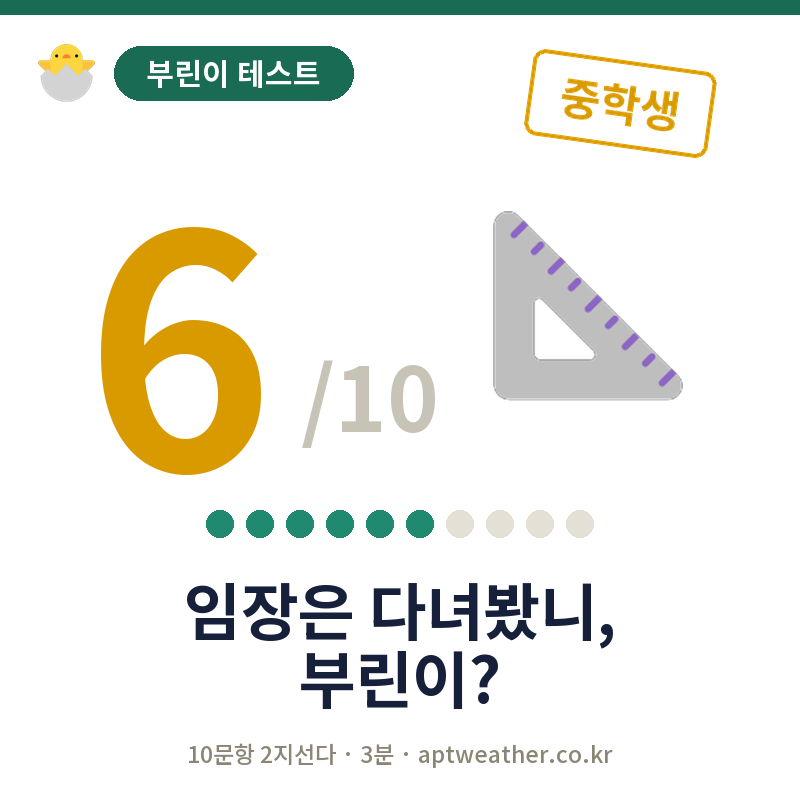
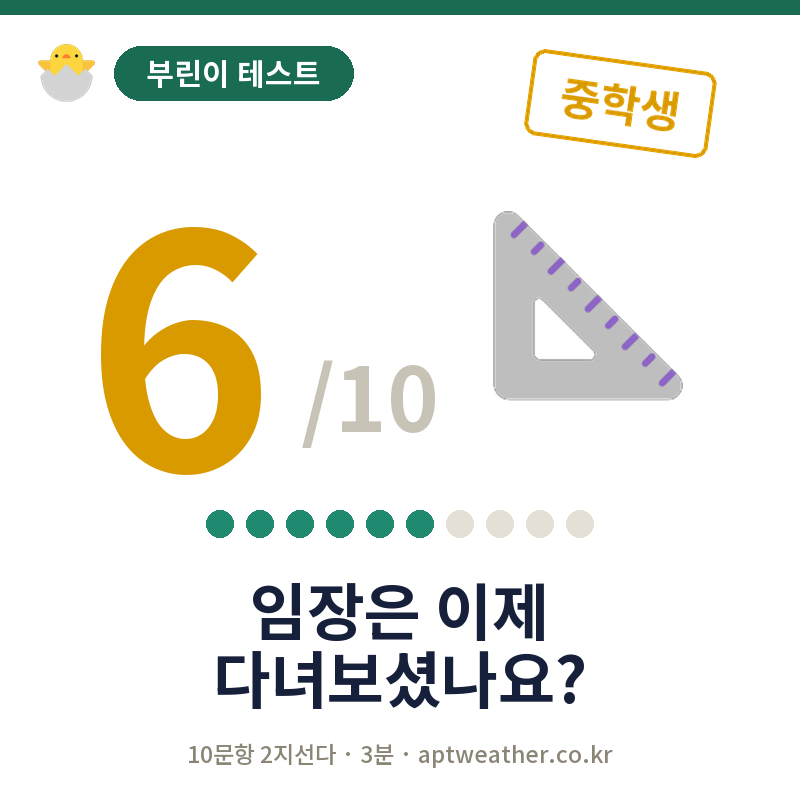
부린이 레벨 호칭 정리: 중학생부터 '부린이' 뗌, 대학생부터 졸업 메타포
- LV6 중학생 → '부린이 티를 벗는 중학생' (도발: 임장은 이제 다녀보셨나요?)
- LV7 고등학생 → '실전을 앞둔 고등학생'
- LV8 대학생 → '부린이 졸업, 어엿한 성인 실수요자'
- LV9 대학원생 → '논문까지 쓰는 부동산 대학원생'
  도발을 '중개사보다 잘 아시는데요?' → '이쯤 되면… 다주택자세요?'
- 카드 6·9번 문구 재생성, 생성기에 도발 문구 좌우 여백 assert 추가

Changed region(s): [[0.2188, 0.7188, 0.7812, 0.9062]]

diff --git a/index.html b/index.html
@@ -1355,18 +1355,18 @@ const BLV=[
   {lv:'LV5',emoji:'\u{270F}\u{FE0F}',g:'초등학생 부린이',
    d:'용어는 외웠지만 실전은 아직. 계약서 앞에선 아직 손이 떨릴 겁니다.',
    taunt:'용어는 외웠는데 실전은 아직이에요'},
-  {lv:'LV6',emoji:'\u{1F4D0}',g:'중학생 부린이',
+  {lv:'LV6',emoji:'\u{1F4D0}',g:'부린이 티를 벗는 중학생',
    d:'발품은 파는데 제도에서 막히는 단계. 틀린 문항 해설을 한 번 더 읽어보세요.',
-   taunt:'임장은 다녀봤니, 부린이?'},
-  {lv:'LV7',emoji:'\u{1F4D7}',g:'고등학생 부린이',
+   taunt:'임장은 이제 다녀보셨나요?'},
+  {lv:'LV7',emoji:'\u{1F4D7}',g:'실전을 앞둔 고등학생',
    d:'기본기는 탄탄합니다. 헷갈린 한두 개 제도만 챙기면 졸업이 보입니다.',
    taunt:'제도는 다 아시네요. 이제 실전만 남았어요'},
-  {lv:'LV8',emoji:'\u{1F4DA}',g:'대학생 부린이',
+  {lv:'LV8',emoji:'\u{1F4DA}',g:'부린이 졸업, 어엿한 성인 실수요자',
    d:'대출·세금·임대차를 또렷이 꿰고 있습니다. 계약서 앞에서 안 떨릴 수준.',
    taunt:'계약서 앞에서 안 떨리겠는데요?'},
-  {lv:'LV9',emoji:'\u{1F52C}',g:'대학원생 부린이',
+  {lv:'LV9',emoji:'\u{1F52C}',g:'논문까지 쓰는 부동산 대학원생',
    d:'이쯤 되면 중개사에게 되묻는 쪽입니다. 투자자 테스트로 넘어갈 때입니다.',
-   taunt:'중개사보다 잘 아시는데요?'},
+   taunt:'이쯤 되면… 다주택자세요?'},
   {lv:'LV10',emoji:'\u{1F393}',g:'부동산학 교수님',
    d:'부린이는 무슨 — 강단에 서셔도 됩니다. 이제 투자자 테스트에서 통념을 깨보세요.',
    taunt:'혹시… 부동산학 강의하세요?'}

diff --git a/tools/make_beginner_cards.py b/tools/make_beginner_cards.py
@@ -112,9 +112,11 @@ def make_card(score, level, out_path):
         c = DOT_ON if i < score else DOT_OFF
         d.ellipse([cx-13.5, 524-13.5, cx+13.5, 524+13.5], fill=c)
 
-    # 도발 문구 2줄
+    # 도발 문구 2줄 (좌우 여백 60px 확보 — 넘치면 즉시 실패)
     t_f = noto(62, 'Bold')
     for i, line in enumerate(level['taunt2']):
+        lb = d.textbbox((400, 610 + i*68), line, font=t_f, anchor='mm')
+        assert lb[0] >= 60 and lb[2] <= W-60, 'taunt line overflows: %r (%d..%d)' % (line, lb[0], lb[2])
         d.text((400, 610 + i*68), line, font=t_f, fill=INK, anchor='mm')
 
     # 푸터
@@ -132,10 +134,10 @@ LEVELS = [
     dict(stamp='어린이집', emoji='\U0001F9F8', taunt2=['등기부등본이', '아직 그림책 같죠?']),
     dict(stamp='유치원', emoji='\U0001F392', taunt2=['LTV랑 DSR,', '아직 헷갈리시죠?']),
     dict(stamp='초등학생', emoji='✏', taunt2=['용어는 외웠는데', '실전은 아직이에요']),
-    dict(stamp='중학생', emoji='\U0001F4D0', taunt2=['임장은 다녀봤니,', '부린이?']),
+    dict(stamp='중학생', emoji='\U0001F4D0', taunt2=['임장은 이제', '다녀보셨나요?']),
     dict(stamp='고등학생', emoji='\U0001F4D7', taunt2=['제도는 다 아시네요', '이제 실전만 남았어요']),
     dict(stamp='대학생', emoji='\U0001F4DA', taunt2=['계약서 앞에서', '안 떨리겠는데요?']),
-    dict(stamp='대학원생', emoji='\U0001F52C', taunt2=['중개사보다', '잘 아시는데요?']),
+    dict(stamp='대학원생', emoji='\U0001F52C', taunt2=['이쯤 되면…', '다주택자세요?']),
     dict(stamp='교수님', emoji='\U0001F393', taunt2=['혹시… 부동산학', '강의하세요?']),
 ]
 
